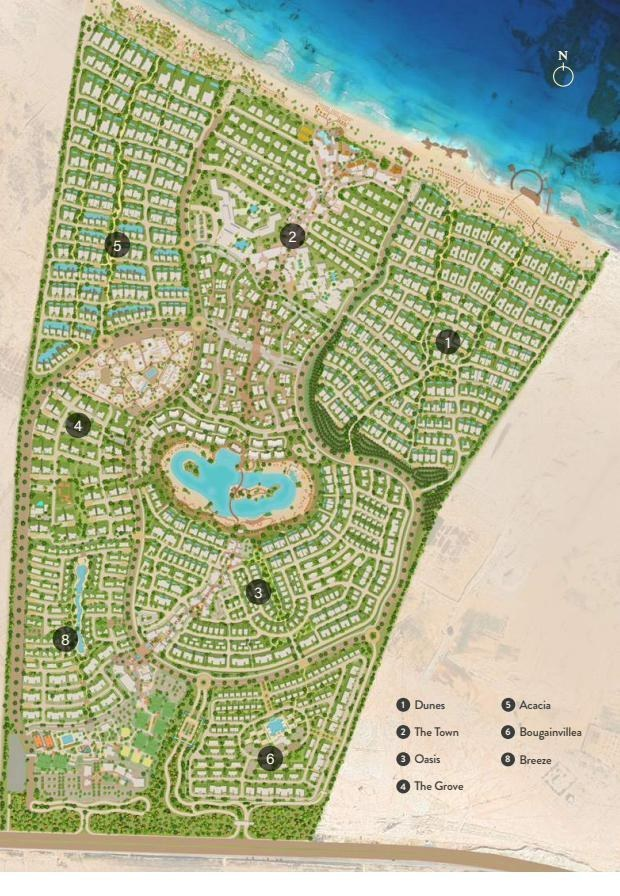
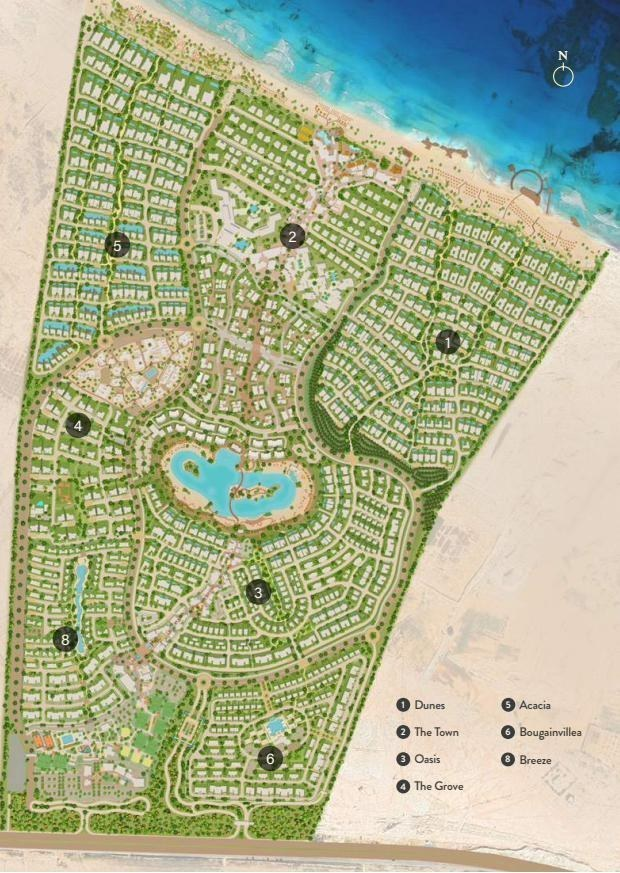
Add files via upload

diff --git a/district-5.html b/district-5.html
@@ -865,6 +865,27 @@ h2{margin-bottom:12px}
   .picknav{flex-wrap:wrap;overflow:visible}
   .picknav button{white-space:nowrap;padding:10px 13px 9px;font-size:.86rem}
 }
+
+/* Nine tabs in one row reads as a single list. A divider and a label before the
+   office group make it clear these are a different kind of thing. */
+.picknav button[data-group="office"]:first-of-type{
+  margin-left:clamp(10px,1.6vw,22px);padding-left:clamp(14px,1.8vw,26px);
+  border-left:1px solid var(--rule)}
+.pdesc{margin:14px 0 0;font-size:.87rem;color:var(--soft);line-height:1.5;max-width:38ch}
+
+/* The panel takes the plan's own proportions, so the image fills it corner to
+   corner with nothing cropped and no grey inside the frame. Cropping to fill a
+   fixed panel cost between 14% and 40% of the drawing depending on window
+   width, which is too much to lose from a masterplan. Where the plan is
+   shorter than the text beside it, the space around it is the section's own
+   ground rather than a grey box. */
+@media(min-width:901px){
+  .split{grid-template-columns:0.92fr 1fr;align-items:center}
+  .split .art{aspect-ratio:1092/1092;align-self:center}
+}
+.split .art{padding:0;background:#eef1f5;overflow:hidden}
+.split .art img{width:100%;height:100%;max-width:none;max-height:none;
+  object-fit:cover;object-position:center}
 </style>
 </head>
 <body data-project="district5">
@@ -1022,7 +1043,7 @@ h2{margin-bottom:12px}
     <span class="marker" data-n="02"></span>
     <div class="inner">
       <div class="rv">
-        <p class="eyebrow"><span class="secnum">02</span>What you can buy</p>
+        <p class="eyebrow"><span class="secnum">02</span>Property types</p>
         <h2>Buy a home, <em>or buy the office too.</em></h2>
         <p class="lead">The only Marakez address where you can do both.</p>
       </div>
@@ -1034,6 +1055,11 @@ h2{margin-bottom:12px}
           <button role="tab" aria-selected="false" data-p="2" data-type="Court home">Court homes</button>
           <button role="tab" aria-selected="false" data-p="3" data-type="Twinhouse">Twinhouses</button>
           <button role="tab" aria-selected="false" data-p="4" data-type="Villa">Villas</button>
+        
+          <button role="tab" aria-selected="false" data-p="5" data-type="Private" data-group="office">Mindhaus Private</button>
+          <button role="tab" aria-selected="false" data-p="6" data-type="Twin" data-group="office">Mindhaus Twin</button>
+          <button role="tab" aria-selected="false" data-p="7" data-type="Quad" data-group="office">Quad</button>
+          <button role="tab" aria-selected="false" data-p="8" data-type="Campus module" data-group="office">Campus module</button>
         </div>
         <div class="pickbody" data-pane="0" data-type="Apartment">
           <div class="pickshots">
@@ -1105,8 +1131,56 @@ h2{margin-bottom:12px}
             <div class="row"><span class="k">Status</span><span class="v" data-avail-for="Villa"></span></div>
           </div>
         </div>
+              <div class="pickbody" data-pane="5" data-type="Private" hidden>
+          <div class="pickshots">
+            <div class="ptrack" data-pcar><figure><img src="assets/img/d5/o-interior.jpeg" alt="Mindhaus Private" loading="lazy"></figure></div>
+            <div class="pdots"></div>
+          </div>
+          <div class="pickmeta">
+            <h3>Mindhaus Private</h3>
+            <div class="row"><span class="k">Floor area</span><span class="v" data-size>600 – 2,400 sqm</span></div>
+            <div class="row"><span class="k">Status</span><span class="v"><span data-avail-for="Private"></span></span></div>
+            <p class="pdesc">Standalone office buildings on the campus, each with its own entrance.</p>
+          </div>
+        </div>
+        <div class="pickbody" data-pane="6" data-type="Twin" hidden>
+          <div class="pickshots">
+            <div class="ptrack" data-pcar><figure><img src="assets/img/d5/o-campus.jpeg" alt="Mindhaus Twin" loading="lazy"></figure></div>
+            <div class="pdots"></div>
+          </div>
+          <div class="pickmeta">
+            <h3>Mindhaus Twin</h3>
+            <div class="row"><span class="k">Floor area</span><span class="v" data-size>600 – 1,200 sqm</span></div>
+            <div class="row"><span class="k">Status</span><span class="v"><span data-avail-for="Twin"></span></span></div>
+            <p class="pdesc">Paired buildings sharing a landscaped courtyard.</p>
+          </div>
+        </div>
+        <div class="pickbody" data-pane="7" data-type="Quad" hidden>
+          <div class="pickshots">
+            <div class="ptrack" data-pcar><figure><img src="assets/img/d5/o-strip.jpeg" alt="Quad" loading="lazy"></figure></div>
+            <div class="pdots"></div>
+          </div>
+          <div class="pickmeta">
+            <h3>Quad</h3>
+            <div class="row"><span class="k">Floor area</span><span class="v" data-size>1,200 – 2,400 sqm</span></div>
+            <div class="row"><span class="k">Status</span><span class="v"><span data-avail-for="Quad"></span></span></div>
+            <p class="pdesc">Four units around a shared core, on the Strip.</p>
+          </div>
+        </div>
+        <div class="pickbody" data-pane="8" data-type="Campus module" hidden>
+          <div class="pickshots">
+            <div class="ptrack" data-pcar><figure><img src="assets/img/d5/o-campus.jpeg" alt="Campus module" loading="lazy"></figure></div>
+            <div class="pdots"></div>
+          </div>
+          <div class="pickmeta">
+            <h3>Campus module</h3>
+            <div class="row"><span class="k">Floor area</span><span class="v" data-size>Under 600 sqm</span></div>
+            <div class="row"><span class="k">Status</span><span class="v"><span data-avail-for="Campus module"></span></span></div>
+            <p class="pdesc">Smaller modules inside the campus, from a single floor upward.</p>
+          </div>
+        </div>
       </div>
-    </div>
+          </div>
   </section>
 
 </div><!-- /doc -->

diff --git a/crescent-walk.html b/crescent-walk.html
@@ -877,6 +877,20 @@ h2{margin-bottom:12px}
   .picknav{flex-wrap:wrap;overflow:visible}
   .picknav button{white-space:nowrap;padding:10px 13px 9px;font-size:.86rem}
 }
+
+/* The panel takes the plan's own proportions, so the image fills it corner to
+   corner with nothing cropped and no grey inside the frame. Cropping to fill a
+   fixed panel cost between 14% and 40% of the drawing depending on window
+   width, which is too much to lose from a masterplan. Where the plan is
+   shorter than the text beside it, the space around it is the section's own
+   ground rather than a grey box. */
+@media(min-width:901px){
+  .split{grid-template-columns:1.35fr 1fr;align-items:center}
+  .split .art{aspect-ratio:1456/819;align-self:center}
+}
+.split .art{padding:0;background:#eef1f5;overflow:hidden}
+.split .art img{width:100%;height:100%;max-width:none;max-height:none;
+  object-fit:cover;object-position:center}
 </style>
 </head>
 <body data-project="crescent">
@@ -1025,7 +1039,7 @@ h2{margin-bottom:12px}
     <span class="marker" data-n="02"></span>
     <div class="inner">
       <div class="rv">
-        <p class="eyebrow"><span class="secnum">02</span>What you can buy</p>
+        <p class="eyebrow"><span class="secnum">02</span>Property types</p>
         <h2>Every one of them <em>backs onto the park.</em></h2>
         <p class="lead">Four types, one green spine, a private gate from each.</p>
       </div>

diff --git a/ramla.html b/ramla.html
@@ -877,6 +877,20 @@ h2{margin-bottom:12px}
   .picknav{flex-wrap:wrap;overflow:visible}
   .picknav button{white-space:nowrap;padding:10px 13px 9px;font-size:.86rem}
 }
+
+/* The panel takes the plan's own proportions, so the image fills it corner to
+   corner with nothing cropped and no grey inside the frame. Cropping to fill a
+   fixed panel cost between 14% and 40% of the drawing depending on window
+   width, which is too much to lose from a masterplan. Where the plan is
+   shorter than the text beside it, the space around it is the section's own
+   ground rather than a grey box. */
+@media(min-width:901px){
+  .split{grid-template-columns:0.72fr 1fr;align-items:center}
+  .split .art{aspect-ratio:620/873;align-self:center}
+}
+.split .art{padding:0;background:#eef1f5;overflow:hidden}
+.split .art img{width:100%;height:100%;max-width:none;max-height:none;
+  object-fit:cover;object-position:center}
 </style>
 </head>
 <body data-project="ramla">
@@ -1029,7 +1043,7 @@ h2{margin-bottom:12px}
     <span class="marker" data-n="02"></span>
     <div class="inner">
       <div class="rv">
-        <p class="eyebrow"><span class="secnum">02</span>What you can buy</p>
+        <p class="eyebrow"><span class="secnum">02</span>Property types</p>
         <h2>From a chalet by the lagoon <em>to a villa on the sand.</em></h2>
         <p class="lead">Four types across six neighbourhoods.</p>
       </div>

diff --git a/assets/availability.js b/assets/availability.js
@@ -190,7 +190,11 @@
 
         updateChips(resGroup, data.propertyTypes, lang);
         updateChips(offGroup, data.officeFormats, lang);
-        applyPanelBadges(data.propertyTypes, lang);
+        /* District 5 shows office formats in the same section as the homes,
+           so both lists have to feed the availability badges — passing only
+           propertyTypes left every office pane with a blank status. */
+        applyPanelBadges(
+          (data.propertyTypes || []).concat(data.officeFormats || []), lang);
         renderTypePanels(data.propertyTypes, lang);
 
         // logos — image if set in the CMS, otherwise the text wordmark stays
